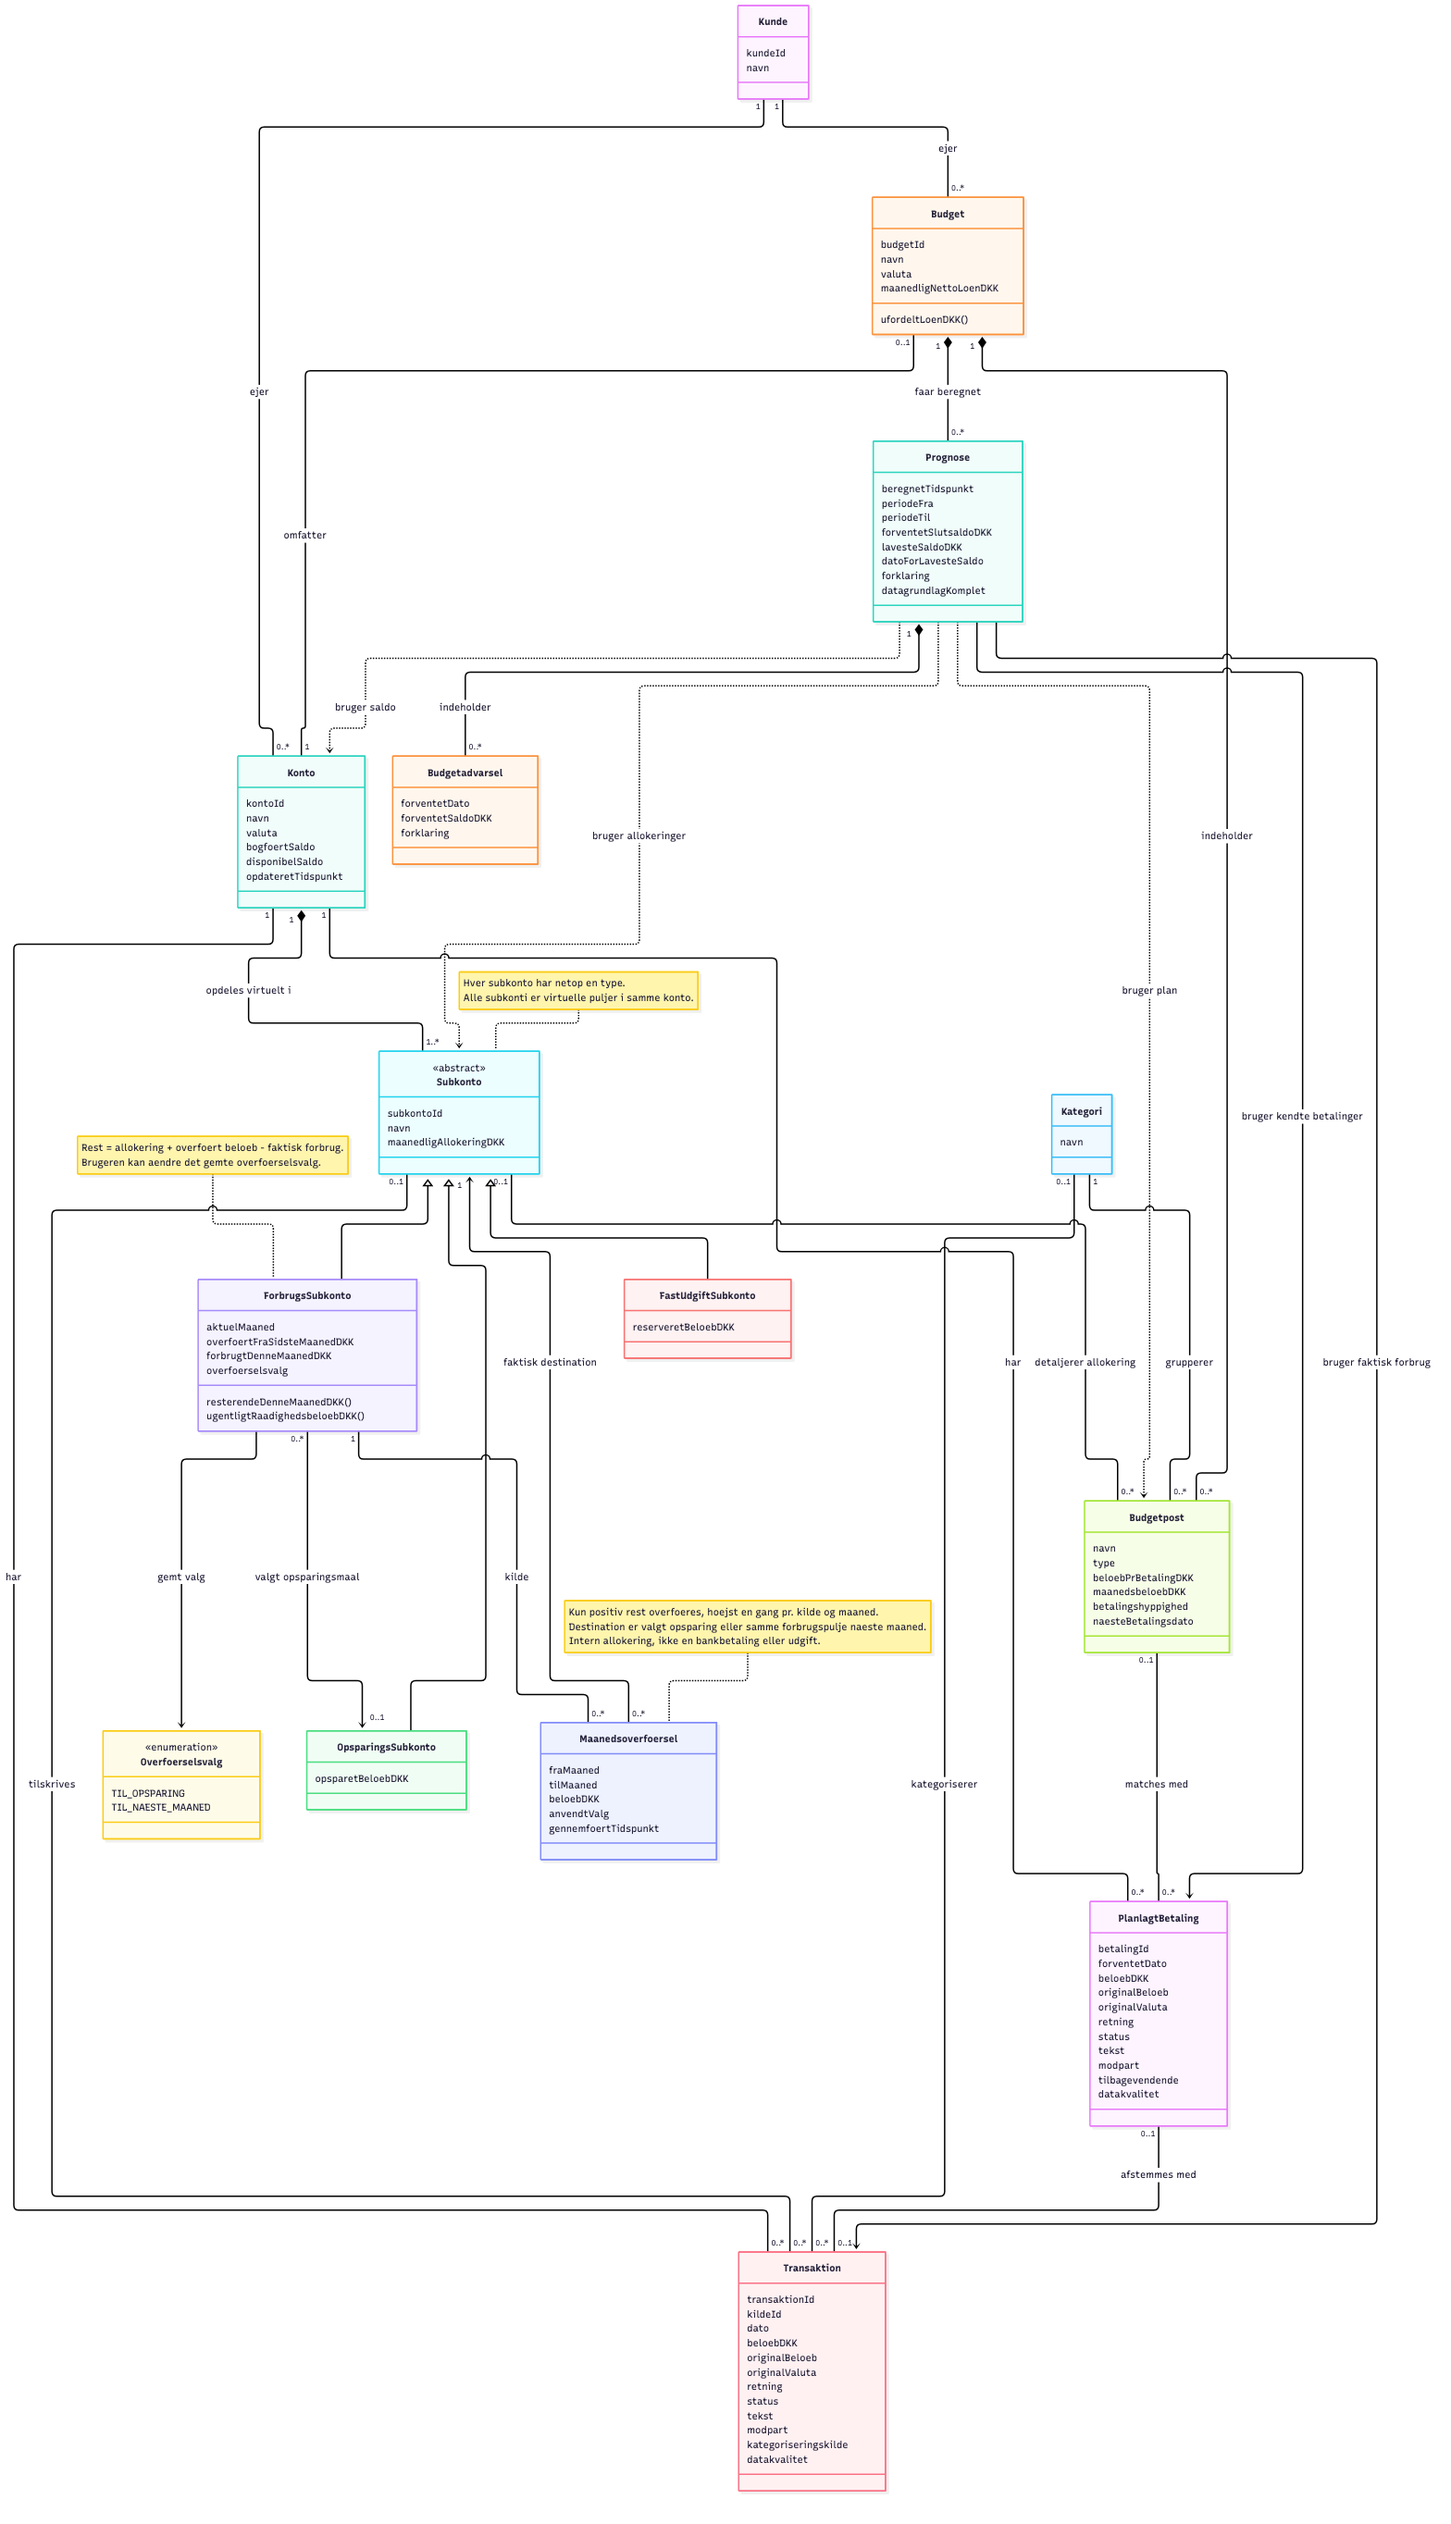
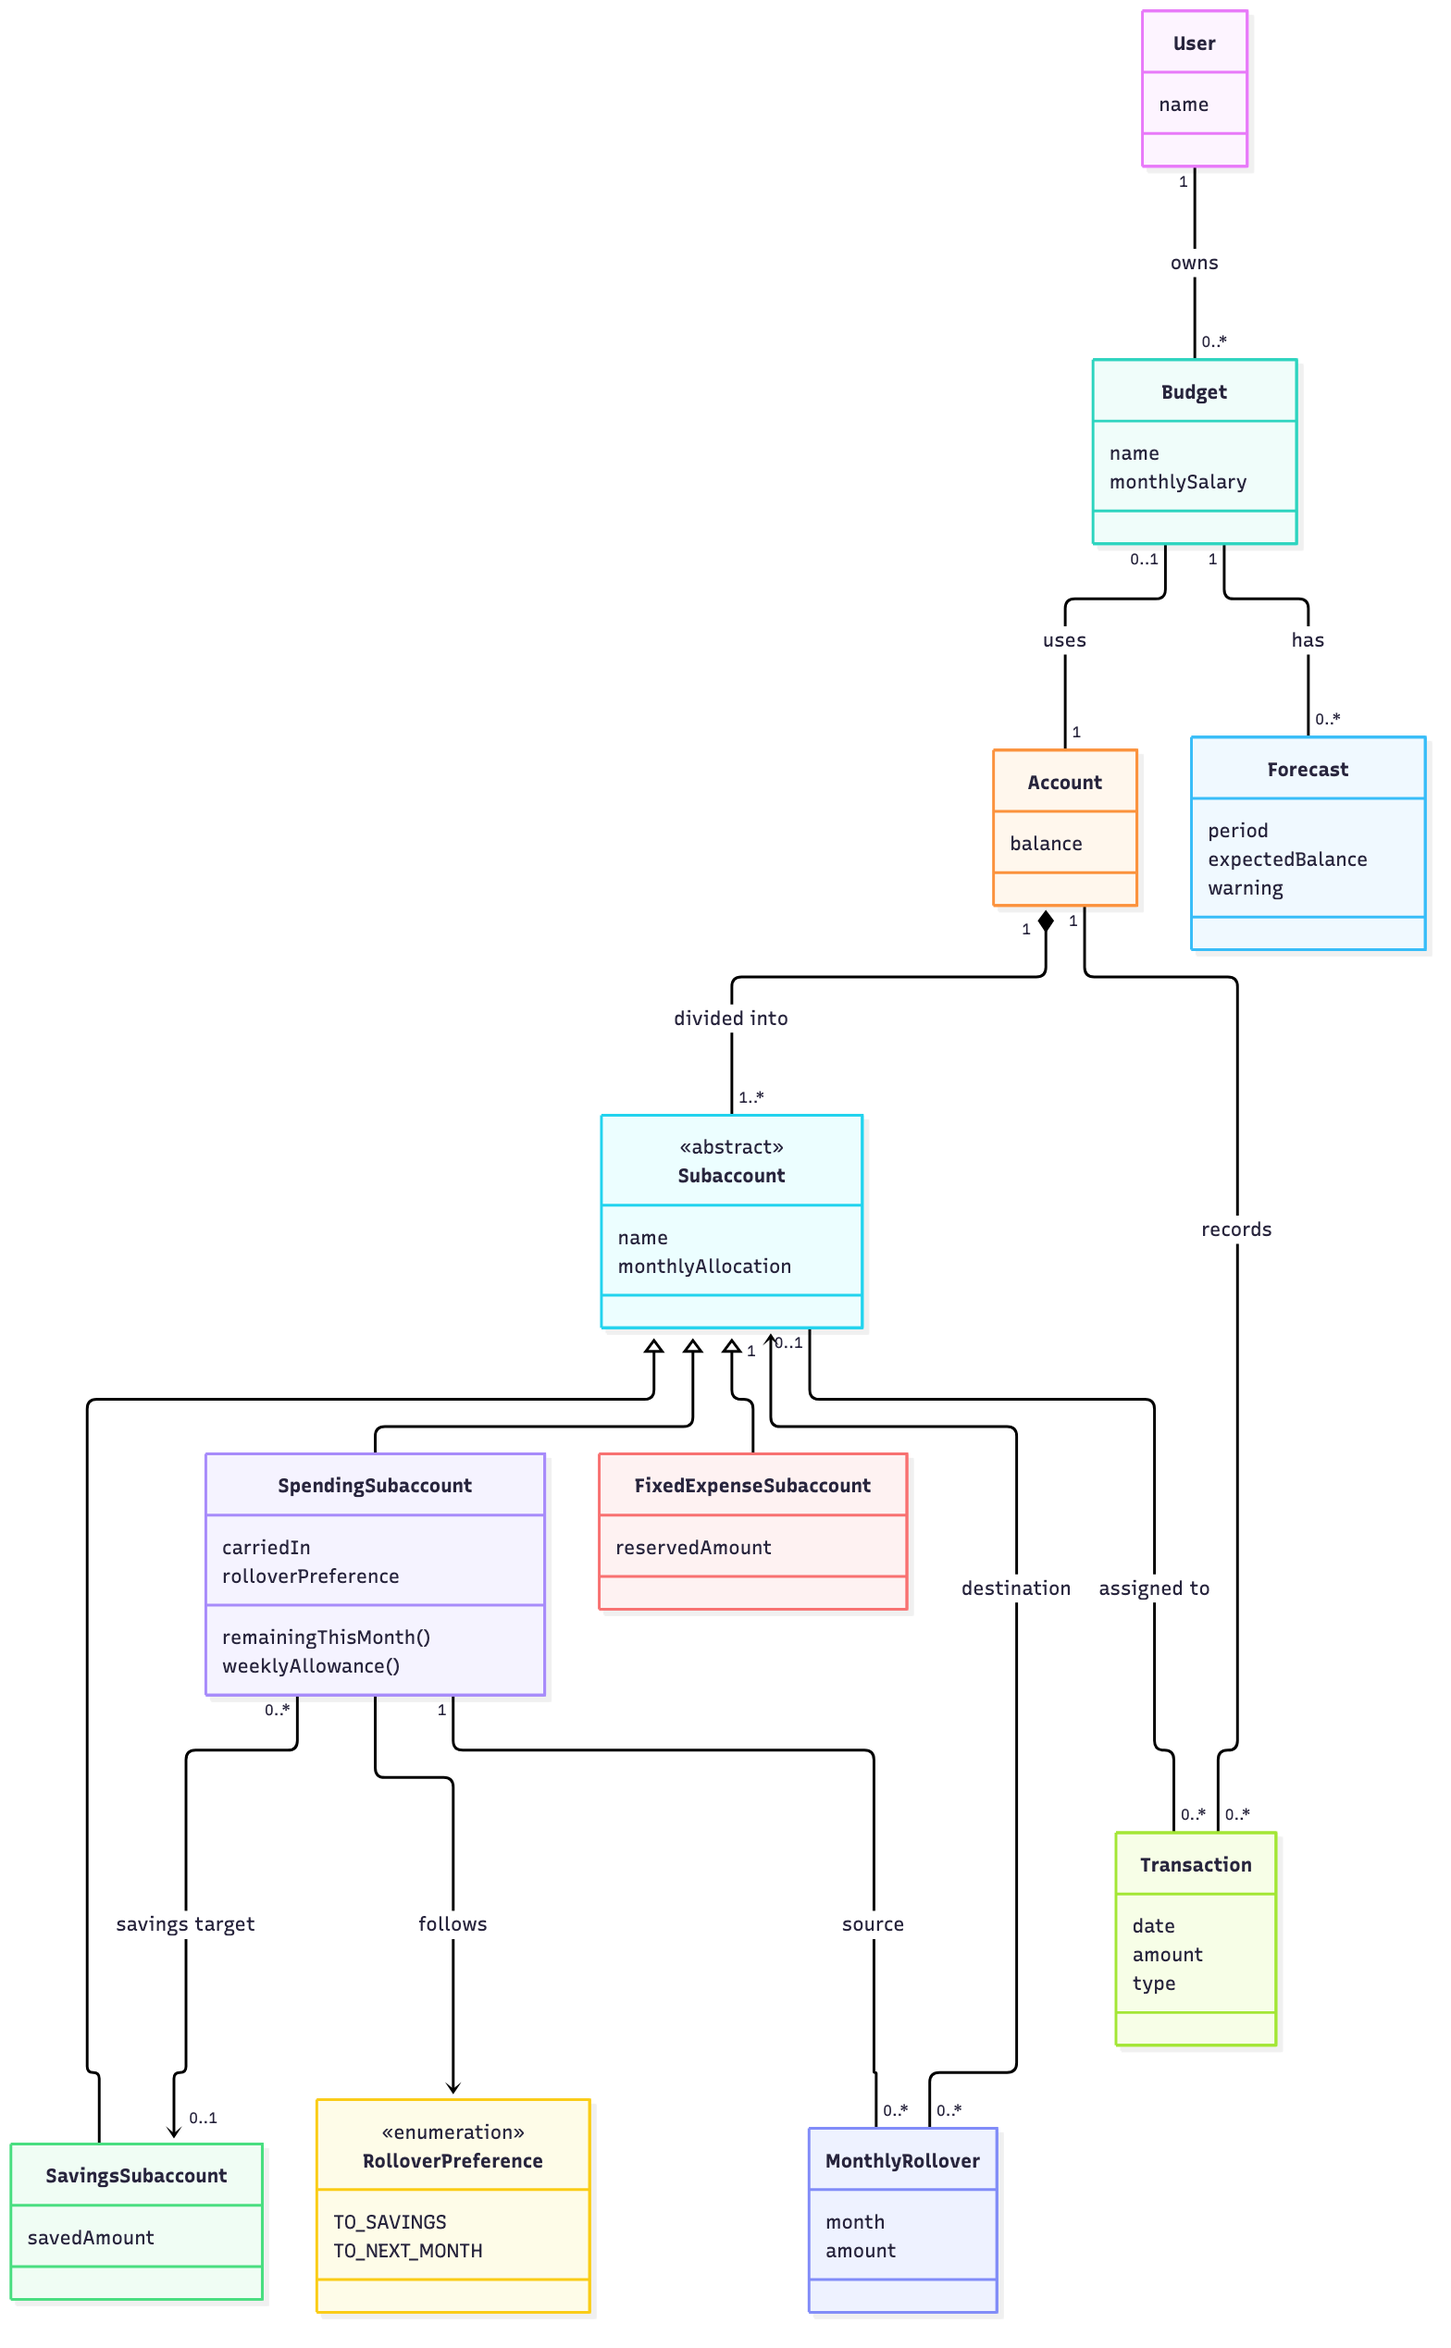
docs: simplify domain model and translate to English

diff --git a/domain-model-notes.md b/domain-model-notes.md
@@ -1,70 +1,30 @@
-# Domain model publication status
+# Budget domain model
 
-This is the conceptual model requested on 5 November 2026, not an implemented database schema or completed feature. The supplied Danish diagram and accompanying notes are preserved as design artifacts.
+A simplified conceptual model of the agreed design, not an implemented database schema. All amounts are in DKK. Identifiers and technical metadata are omitted for readability.
 
-The latest design specifies exactly one bank account per budget, virtual savings/spending/fixed-expense pots, and a saved month-end rollover preference. This narrows the earlier one-or-more-accounts baseline in FR-01 / US-03. Weekly spending guidance supplements the daily guidance in US-06. The existing requirements and acceptance criteria have not been rewritten by this publication; implementation must reconcile them explicitly with these design decisions. Rollover is proposed behaviour, not a completed user story.
+![Budget domain model](domain-model.png)
 
-The source dataset mentioned below is not included in this repository or this commit. No application code, real financial records, or credentials are part of this publication.
+[Mermaid source](domain-model.mmd)
 
----
+## Main rules
 
-# Domænemodel for Danske Bank Budget Builder
+- A user can create multiple budgets. Each budget uses exactly one account, and an account belongs to at most one budget. The account must belong to that user.
+- Subaccounts are named virtual pots within the account. Each has exactly one type: savings, spending, or fixed expense.
+- The user divides monthly take-home salary between the pots. Total monthly allocations cannot exceed that salary.
+- Savings accumulate across months. Fixed-expense allocations reserve money for bills.
+- Transactions record actual income, expenses, or transfers. A transaction can be assigned to one pot or remain unassigned. Transfers are not income or spending.
+- Remaining monthly spending equals monthly allocation plus carried-in money minus actual spending for the current month.
+- Weekly allowance equals the positive remaining amount divided by remaining calendar days, including today, multiplied by the smaller of seven and the remaining days. Overspending is shown separately and gives a zero allowance.
+- Forecasts represent estimates, distinct from spending allowances. A warning explains a projected shortfall. Detailed bill schedules, categorisation and forecasting inputs are omitted from this overview, not removed from the product scope.
 
-Mermaid-kilden findes i `domain-model.mmd`. Modellen er et konceptuelt klassediagram over den aftalte løsning, ikke et databaseskema eller en beskrivelse af allerede implementeret funktionalitet.
+## Month-end rollover
 
-![Domænemodel med virtuelle subkonti og månedsoverførsel](domain-model.png)
+- Each spending pot has a saved preference that the user can change: `TO_SAVINGS` or `TO_NEXT_MONTH`.
+- Savings rollover requires a selected savings pot in the same account. Carry-forward adds the leftover amount to the same spending pot's next monthly allocation.
+- Only positive leftovers roll over, at most once per spending pot and completed month. Zero or negative leftovers do not roll over.
+- MonthlyRollover records the completed month, amount, source and actual destination. Later preference changes do not alter past transfers. Monthly results must be preserved.
+- Rollover changes the virtual allocation only; it does not change the bank balance or execute a payment.
 
-## Aftalte regler
+## Relationship to existing requirements
 
-- En kunde kan have flere separate budgetter, som bruges samtidig.
-- Et oprettet budget omfatter præcis én konto. En konto kan være uden budget eller tilhøre ét budget ad gangen. Konto og budget skal tilhøre samme kunde. Kladder og fælleskonti er ikke modelleret.
-- Kontoen opdeles i mindst én navngiven virtuel subkonto. Hver subkonto har præcis én type: opsparing, forbrug eller fast udgift. Puljerne repræsenterer fordeling af kontoens penge, ikke separate bankkonti.
-- Budgettet angiver månedlig nettoløn. Brugeren fordeler den mellem subkonti; summen af månedlige allokeringer må ikke overstige lønnen. Ufordelt løn er nettoløn minus allokeringerne. Opsparing tilføres sin allokering og bevares på tværs af måneder; faste udgifter reserverer deres allokering til regninger.
-- Et budget er løbende; beløb planlægges månedligt. Hver prognose har en konkret periode frem til månedens afslutning.
-- En budgetpost har én kategori. Flere poster kan have samme kategori, fx flere abonnementer. Sammenligningen med faktiske transaktioner sker samlet pr. kategori, så samme transaktion ikke tælles for hver post.
-- Budgetpostens type er indtægt, fast udgift, variabel udgift eller opsparing. Opsparing er en planlagt overførsel/allokering og skal holdes adskilt fra forbrug.
-- Betalingsbeløb, betalingshyppighed og næste betalingsdato bruges for tilbagevendende poster. Variable forbrugsrammer kan nøjes med et månedsbeløb. Månedsbeløbet er afledt for årlige og kvartalsvise poster; en årlig regning på 12.000 kr. giver 1.000 kr. pr. måned, men den fulde betaling påvirker saldoen på betalingsdatoen.
-- Transaktioner kategoriseres automatisk. Kundens rettelse har forrang; kategoriseringskilden viser automatisk eller manuel. En transaktion kan være ukategoriseret.
-- Prognosen viser forventet slutsaldo, opdager negativ saldo undervejs og forklarer resultatet kort. En budgetadvarsel knyttes til den prognose, der har frembragt den.
-
-## Forbrug og månedsskifte
-
-- Resterende månedsforbrug = månedlig allokering + overført beløb fra sidste måned − faktisk forbrug denne måned. Faktisk forbrug udledes af tilskrevne transaktioner og er ikke en ekstra udgift i prognosen.
-- Ugens rådighedsbeløb beregnes som positiv rest divideret med resterende kalenderdage inklusive i dag, ganget med det mindste af 7 og resterende kalenderdage. Negativ rest vises som overforbrug og giver et rådighedsbeløb på nul.
-- Hver forbrugssubkonto har et gemt valg, som brugeren kan ændre: `TIL_OPSPARING` eller `TIL_NAESTE_MAANED`. Valget ved månedens afslutning anvendes automatisk.
-- `TIL_OPSPARING` kræver en valgt opsparingssubkonto i samme konto. `TIL_NAESTE_MAANED` lægger resten oven i næste måneds normale allokering i samme forbrugssubkonto.
-- Kun en positiv rest overføres. Der registreres højst én månedsoverførsel pr. forbrugssubkonto og afsluttet måned, så en gentaget behandling ikke flytter beløbet igen. Nul eller negativ rest giver ingen overførsel; overforbrug bevares i den afsluttede måneds resultat.
-- Månedsoverførslen gemmer beløb, kilde, faktisk destination, fra- og tilmåned, anvendt valg og gennemførelsestidspunkt. Senere ændringer af brugerens valg må ikke ændre historikken. Den afsluttede måneds beregningsgrundlag bevares ved månedsskifte.
-- En månedsoverførsel ændrer den virtuelle fordeling, ikke kontoens samlede saldo. Den er hverken ny indkomst, forbrug eller en rigtig bankbetaling.
-- Budgetposter kan detaljere en subkontos allokering, fx flere regninger i en fast-udgiftspulje. Allokeringen og dens underliggende poster må ikke tælles som to separate udgifter. En transaktion kan tilskrives højst én subkonto og kan være ufordelt, indtil den er identificeret.
-
-## Kobling til demo-data
-
-Den lokale fil `budget-builder-demo-data.json` indeholder én konto, 83 transaktionsposter og 14 betalingsposter.
-
-| Data i filen | Domænebegreb | Bemærkning |
-|---|---|---|
-| `account` | Konto | Navn, valuta, saldi og opdateringstidspunkt |
-| `account.ownerName` | Kundens navn | Kundeidentitet og ejerskab er en udvidelse; filen har ikke et selvstændigt kundeobjekt |
-| `transactions.items` | Transaktion | Faktiske eller afventende/reserverede posteringer; status afgør behandling |
-| `payments.items` | PlanlagtBetaling | Kendte betalinger med dato og status; filen omfatter også en lønpost |
-| Ingen direkte struktur | Budget, Budgetpost, Kategori | Tilføjes ud fra de aftalte produktregler |
-| Ingen direkte struktur | Prognose, Budgetadvarsel | Beregnede domæneresultater |
-
-PlanlagtBetaling er en kendt, dateret ind- eller udbetaling. En budgetpost er kundens plan eller forbrugsramme. Et tilbagevendende flag alene angiver ikke betalingshyppighed; den skal bekræftes eller udledes særskilt.
-
-En planlagt betaling kan matches til én budgetpost og senere afstemmes med én transaktion. Det er en forenkling for prototypen; delbetalinger og samlebetalinger er ikke omfattet. Matches findes ikke eksplicit i demofilen og skal derfor etableres med tilstrækkeligt sikre oplysninger.
-
-## Regler for et troværdigt beregningsgrundlag
-
-- Modellen viser normaliserede beløb og datoer. Filen indeholder blandede datatyper, forskellige datoformater, ukendte værdier, varierende statusnavne og et gentaget transaktions-ID. Et internt transaktions-ID skal være unikt; kilde-ID alene er ikke en sikker identitet eller deduplikeringsnøgle.
-- DKK-beløb må kun beregnes ud fra et pålideligt beløb i kontovaluta eller en anvendelig valutakurs. Ukendte beløb, datoer og retninger må ikke gættes eller behandles som nul. Datakvalitet angiver, om posten kan indgå; prognosen viser, hvis grundlaget er ufuldstændigt.
-- Aflyste betalinger indgår ikke i forventede betalinger. Ukendte og afventende statusser kræver en særskilt, dokumenteret behandling.
-- Samme økonomiske hændelse må kun påvirke prognosen én gang: en kendt betaling erstatter det tilsvarende forventede beløb fra budgetposten, og en afstemt transaktion erstatter den planlagte betaling.
-- Prognosen skal anvende et fælles saldotidspunkt og en entydig behandling af reservationer. Historiske transaktioner bruges til forbrug og mønstre og må ikke trækkes fra en aktuel saldo igen.
-- Overførsler mellem virtuelle subkonti er hverken indkomst eller forbrug for det samlede budget. Overførsler mellem separate budgetters bankkonti påvirker hvert budgets likviditet, men skal stadig identificeres som overførsler.
-- Kontoens skift mellem budgetter er ikke historiseret i denne model. Hvis historiske budgetresultater skal bevares ved flytning af konti, skal datomodellen udvides med gyldighedsperioder eller snapshots.
-
-API-felter som pagination, `isSuccess`, `errorMessage`, `meta`, journal- og versionsoplysninger er transportmetadata og er derfor udeladt af domænediagrammet. Kontonumre og konkrete personoplysninger fra filen er ikke kopieret ind i diagrammet.
-
-Den aftalte prognosefunktion er smallere end hele PRD'ens ønskeliste. Kategorioverskridelser, usædvanligt forbrug og øvrige indsigter er mulige senere udvidelser. Modellen tilføjer hverken en chatbot eller betalingsfunktionalitet.
+This design narrows the earlier one-or-more-accounts baseline in FR-01 / US-03 to exactly one account per budget. Weekly guidance supplements the daily guide in US-06. These are design decisions from 5 November 2026; implementation must explicitly align the existing requirements and acceptance criteria. This documentation does not claim that those features are implemented or tested.
